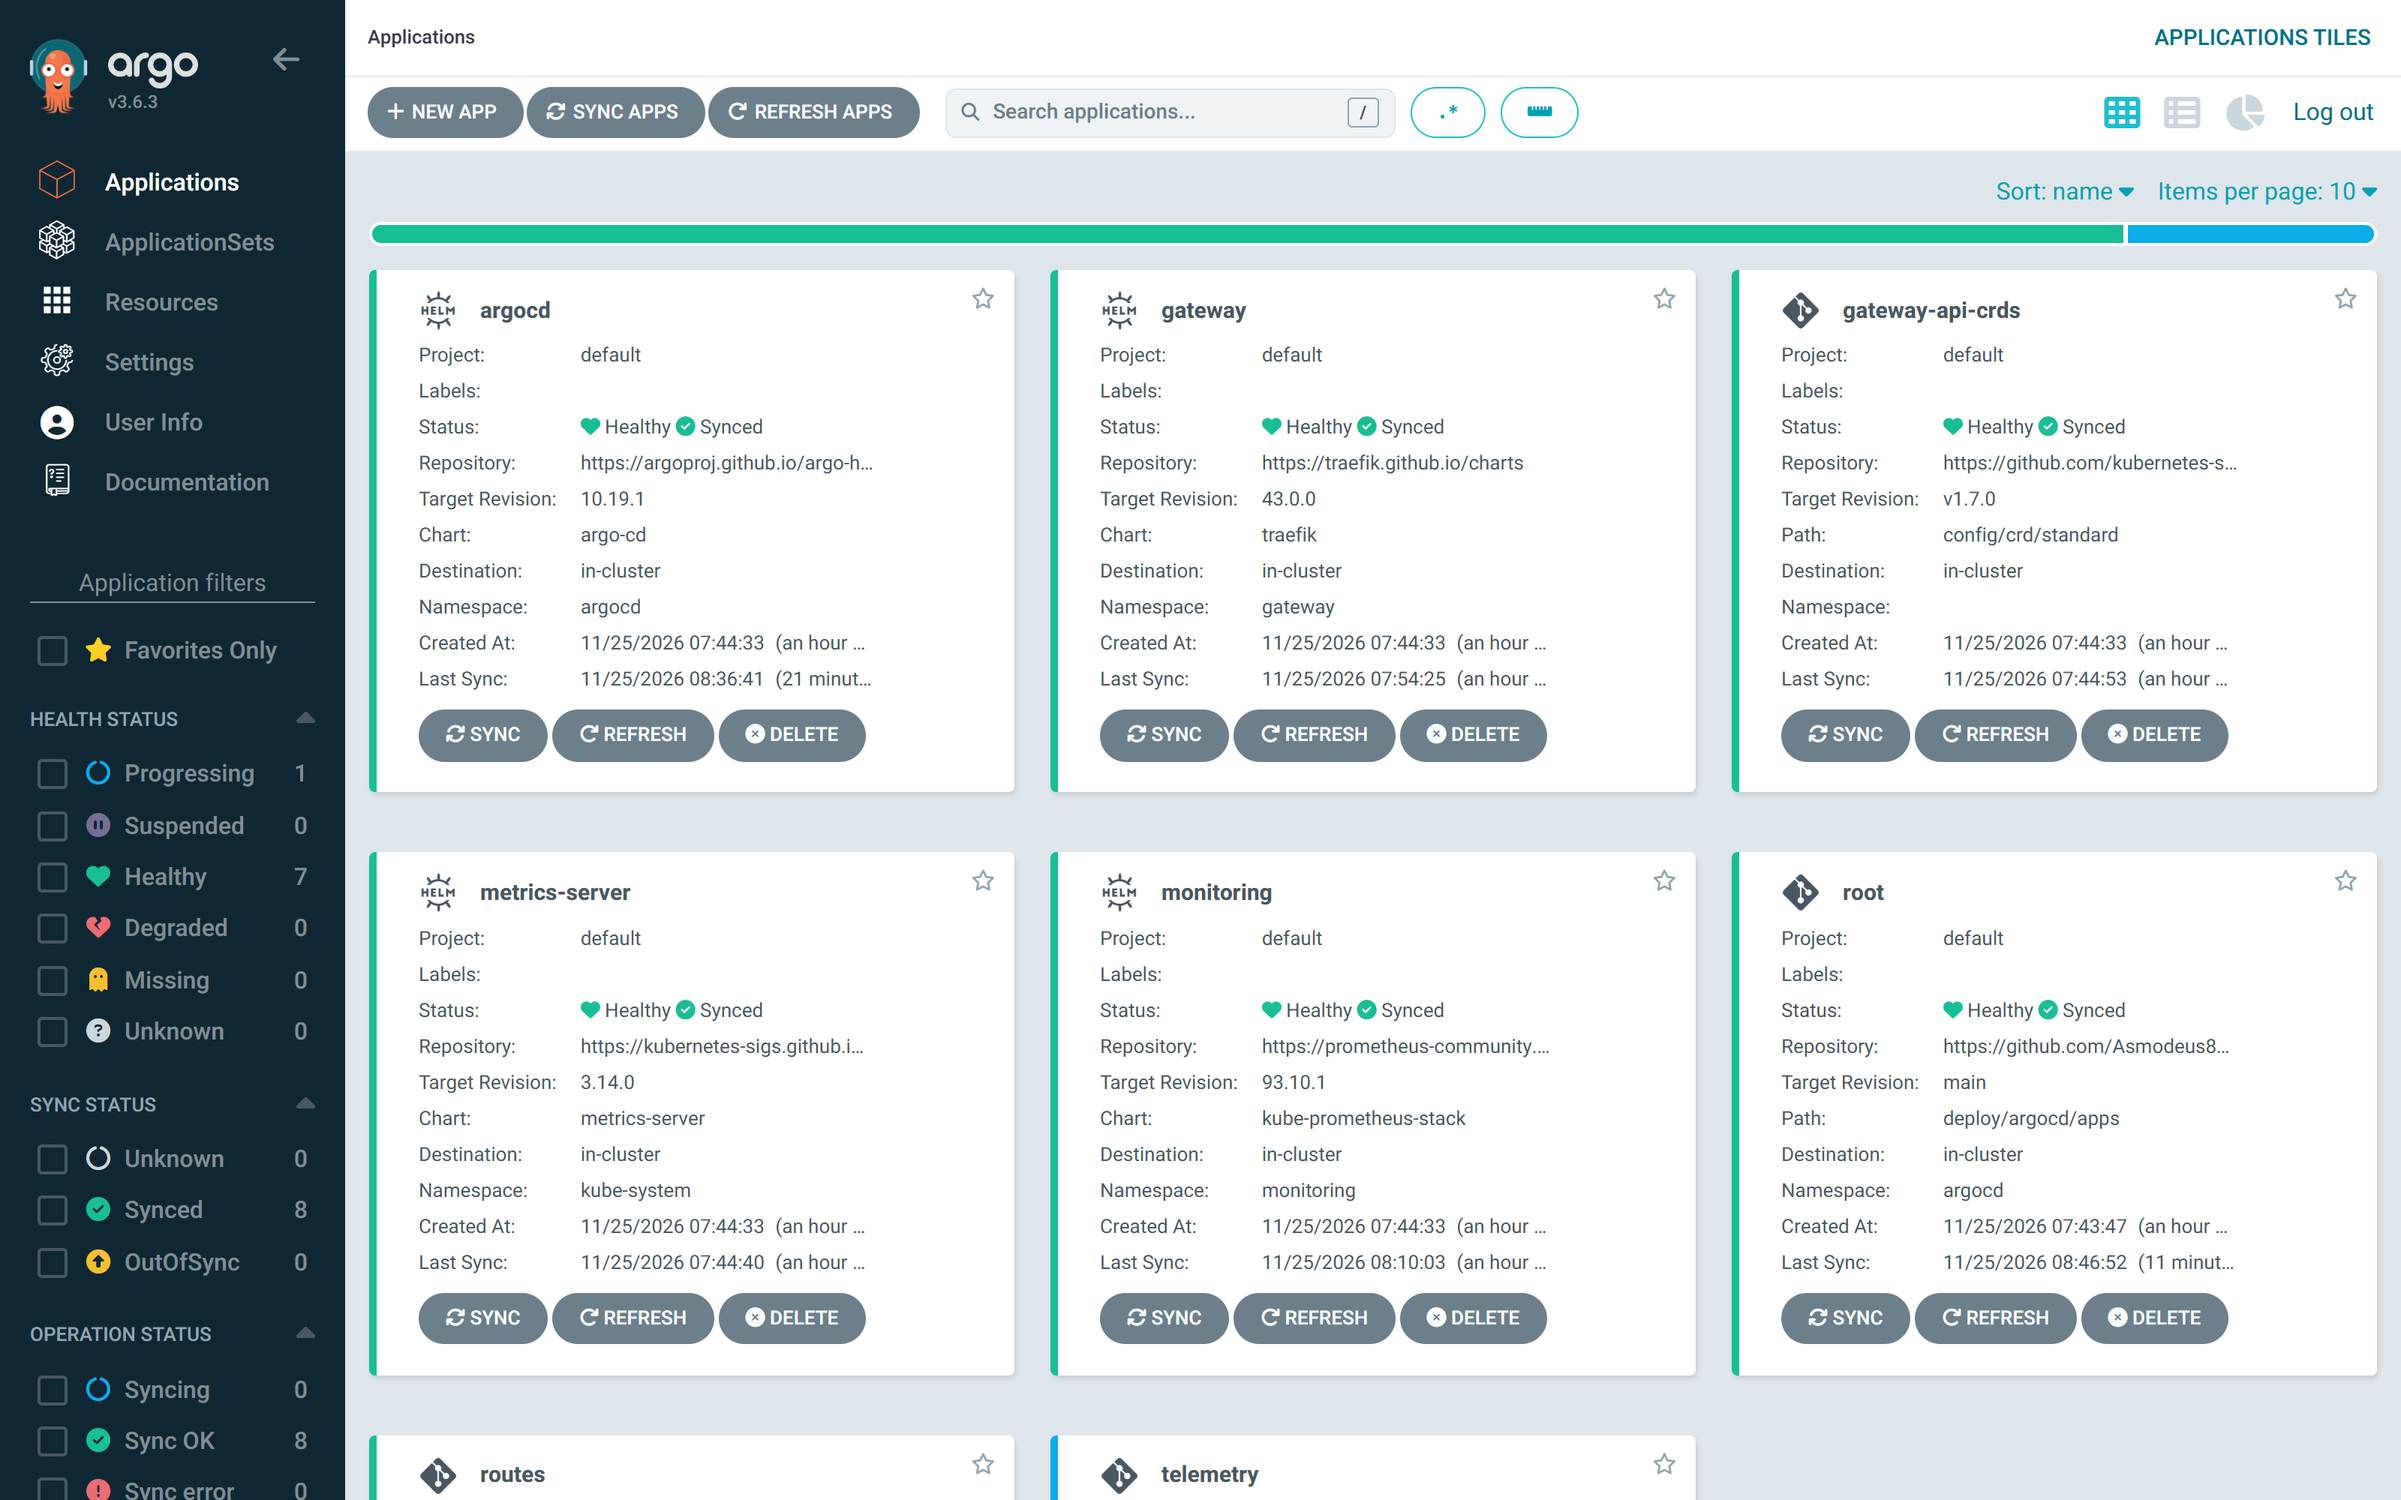
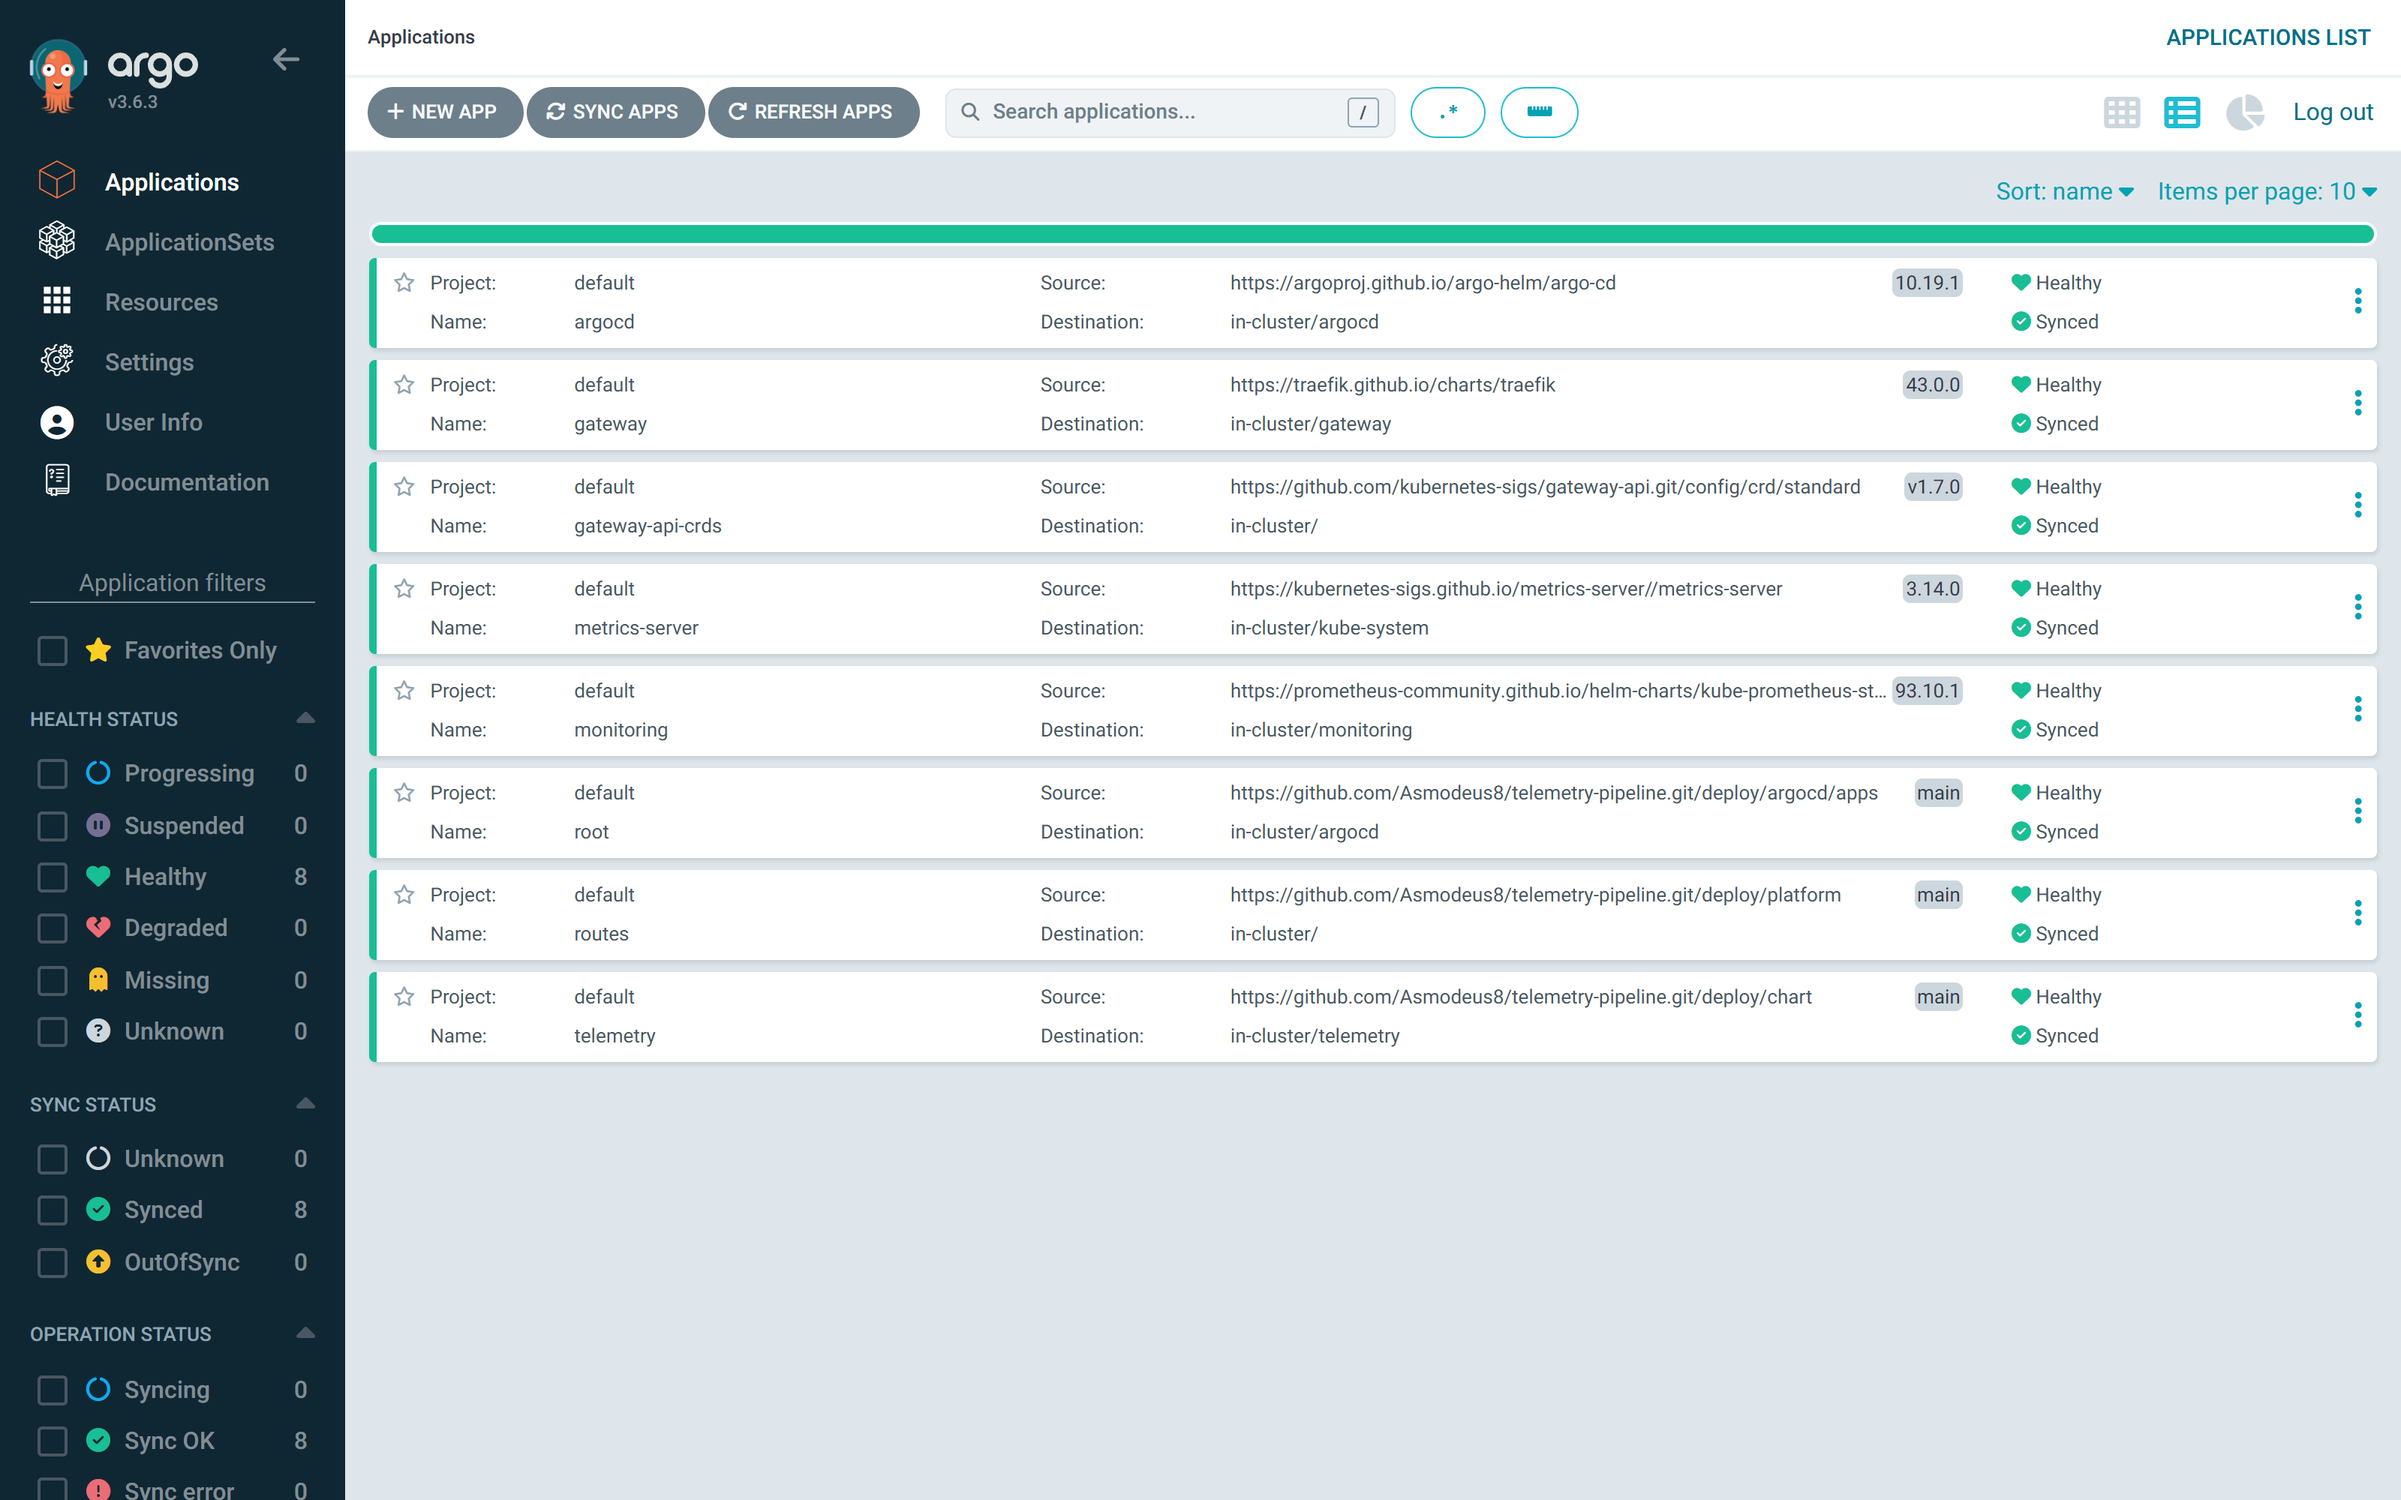
Switch the broker to NanoMQ; add load test results and screenshots
Mosquitto 2.0.20 through 2.1.4 fail to open any config file on Linux 7.0
hosts (GitHub's current runners), whatever the path, user or security
settings. NanoMQ runs with defaults, non-root on a read-only root
filesystem, and splits shared subscriptions evenly.

diff --git a/README.md b/README.md
@@ -106,6 +106,22 @@ The bootstrap creates a three-node [kind](https://kind.sigs.k8s.io) cluster, the
 | http://prometheus.localhost | Prometheus |
 | `localhost:1884` | MQTT for real devices |
 
+![All eight Argo CD applications synced and healthy](docs/k8s-argocd-apps.png)
+
+### Load test
+
+`deploy/load/burst.yaml` replays ten days of readings from four publishers as fast as the broker accepts them:
+
+| | |
+|---|---|
+| Messages | 1.05 million, peaking at about 2,850 a second |
+| Readings written | 3.14 million |
+| Dropped or failed | 0 |
+| p99 batch write | 214 ms |
+| Ingest replicas | autoscaled from 2 to 6 within 40 seconds, back to 2 afterwards |
+
+![Grafana during the load test: messages spread across six ingest pods, write latency, queue depth and broker connections](docs/k8s-grafana.png)
+
 **Release loop:** a push to `main` runs the tests and builds the image. The image goes to `ghcr.io/asmodeus8/telemetry-pipeline:sha-<commit>`, and that tag is committed into `deploy/environments/local/values.yaml`. Argo CD notices the commit and rolls it out. Nothing deploys by running `kubectl` from CI.
 
 **Chart CI:** each change to the chart is linted and schema-checked with kubeconform, including the CRDs. It is then installed on a throwaway kind cluster, where CI runs the smoke test, checks that the shared subscription wrote every reading exactly once, and checks that a rolling restart keeps serving.
